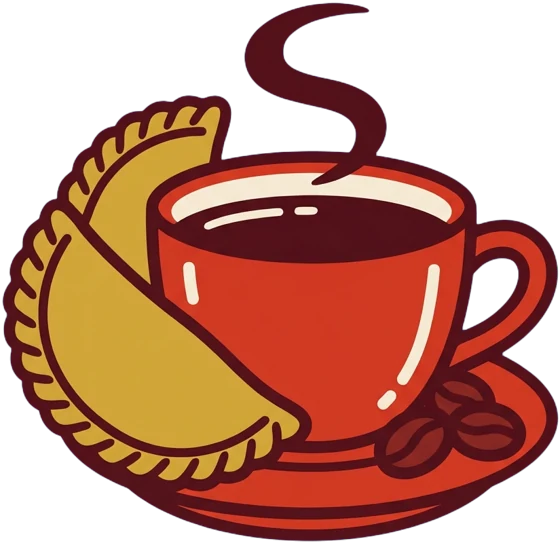
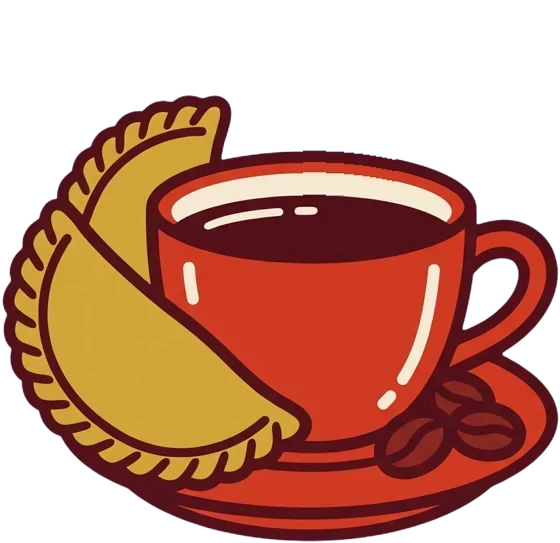
Abuelita's: coffee emblem steam is live SVG, three maroon wisps rising from the cup in turn

Changed region(s): [[0.425, 0.0, 0.6982, 0.3831]]

diff --git a/clients/abuelitas/index.html b/clients/abuelitas/index.html
@@ -9,7 +9,7 @@
 <link rel="icon" href="favicon.svg" type="image/svg+xml">
 <link rel="preconnect" href="https://fonts.googleapis.com"><link rel="preconnect" href="https://fonts.gstatic.com" crossorigin>
 <link rel="stylesheet" href="https://fonts.googleapis.com/css2?family=Alfa+Slab+One&family=Figtree:wght@400;500;600;700;800&family=Lobster+Two:ital,wght@1,700&display=swap">
-<link rel="stylesheet" href="style.css?v=1b8efd22">
+<link rel="stylesheet" href="style.css?v=2af96653">
 </head>
 <!-- data-checkout: the shop server's /checkout?shop=abuelitas address once it is hosted; empty keeps the last step in draft -->
 <body data-checkout="https://shop.seaofgrass.studio/checkout?shop=abuelitas">
@@ -101,7 +101,7 @@
     <h3 id="s-coffee">Coffee &amp; drinks</h3>
     <p class="hint">Coffee is on in the mornings.</p>
     <div class="coffee-row">
-    <img class="cup-art" src="art/coffee-emblem.webp" width="560" height="543" alt="" aria-hidden="true" loading="lazy" decoding="async">
+    <div class="cup-wrap"><img class="cup-art" src="art/coffee-emblem.webp" width="560" height="543" alt="" aria-hidden="true" loading="lazy" decoding="async"><svg class="cup-steam" viewBox="0 0 560 543" width="0" height="0" fill="none" stroke="none" aria-hidden="true"><path pathLength="1" d="M322 168C300 140 352 118 338 88S296 48 326 14"/><path pathLength="1" d="M300 166C282 142 324 124 312 98S280 62 300 34"/><path pathLength="1" d="M346 170C330 146 372 128 360 100S332 66 352 40"/></svg></div>
     <div>
     <ul class="list">
       <li data-key="espresso" data-name="Espresso">Espresso</li>
@@ -203,9 +203,9 @@
   <a href="https://seaofgrass.studio" rel="noopener">Site by Sea of Grass</a>
 </footer>
 
-<script src="frame.js?v=1b8efd22"></script>
-<script src="crimp.js?v=1b8efd22"></script>
-<script src="weave.js?v=1b8efd22"></script>
-<script src="order.js?v=1b8efd22"></script>
+<script src="frame.js?v=2af96653"></script>
+<script src="crimp.js?v=2af96653"></script>
+<script src="weave.js?v=2af96653"></script>
+<script src="order.js?v=2af96653"></script>
 </body>
 </html>

diff --git a/clients/abuelitas/style.css b/clients/abuelitas/style.css
@@ -439,3 +439,16 @@ h3 { margin: 40px 0 12px; }
 .combo, .visit { border-image: linear-gradient(var(--ink), var(--ink)) fill 0 / 0 / 0 100vmax; }
 .sweetboard { border-image: linear-gradient(var(--maroon), var(--maroon)) fill 0 / 0 / 0 100vmax; }
 .menu > h2, .chips { border-image: linear-gradient(var(--paper), var(--paper)) fill 0 / 0 / 0 100vmax; }
+/* the coffee emblem's steam is live: three maroon wisps rise out of the cup and fade, one after another */
+.cup-wrap { position: relative; align-self: center; }
+.cup-wrap .cup-art { display: block; width: 100%; height: auto; margin: 0; }
+@media (max-width: 759px) { .cup-wrap { width: 168px; margin: 8px auto 12px; } }
+.cup-steam { position: absolute; inset: 0; width: 100%; height: 100%; overflow: visible; pointer-events: none; }
+.cup-steam path { stroke: var(--maroon); stroke-width: 15; stroke-linecap: round; stroke-dasharray: .42 1.6; stroke-dashoffset: .42; opacity: 0; animation: cupsteam 3.6s ease-in-out infinite; }
+.cup-steam path:nth-child(2) { stroke-width: 10; animation-delay: 1.2s; }
+.cup-steam path:nth-child(3) { stroke-width: 10; animation-delay: 2.4s; }
+@keyframes cupsteam { 0% { stroke-dashoffset: .42; opacity: 0; } 15% { opacity: 1; } 70% { opacity: 1; } 100% { stroke-dashoffset: -1.05; opacity: 0; } }
+@media (prefers-reduced-motion: reduce) { .cup-steam path { animation: none; opacity: 1; stroke-dasharray: none; } .cup-steam path:nth-child(n+2) { display: none; } }
+.cup-steam path { stroke-width: 22; stroke-dasharray: .55 1.6; stroke-dashoffset: .55; }
+.cup-steam path:nth-child(2), .cup-steam path:nth-child(3) { stroke-width: 15; }
+@keyframes cupsteam { 0% { stroke-dashoffset: .55; opacity: 0; } 15% { opacity: 1; } 70% { opacity: 1; } 100% { stroke-dashoffset: -1.05; opacity: 0; } }
